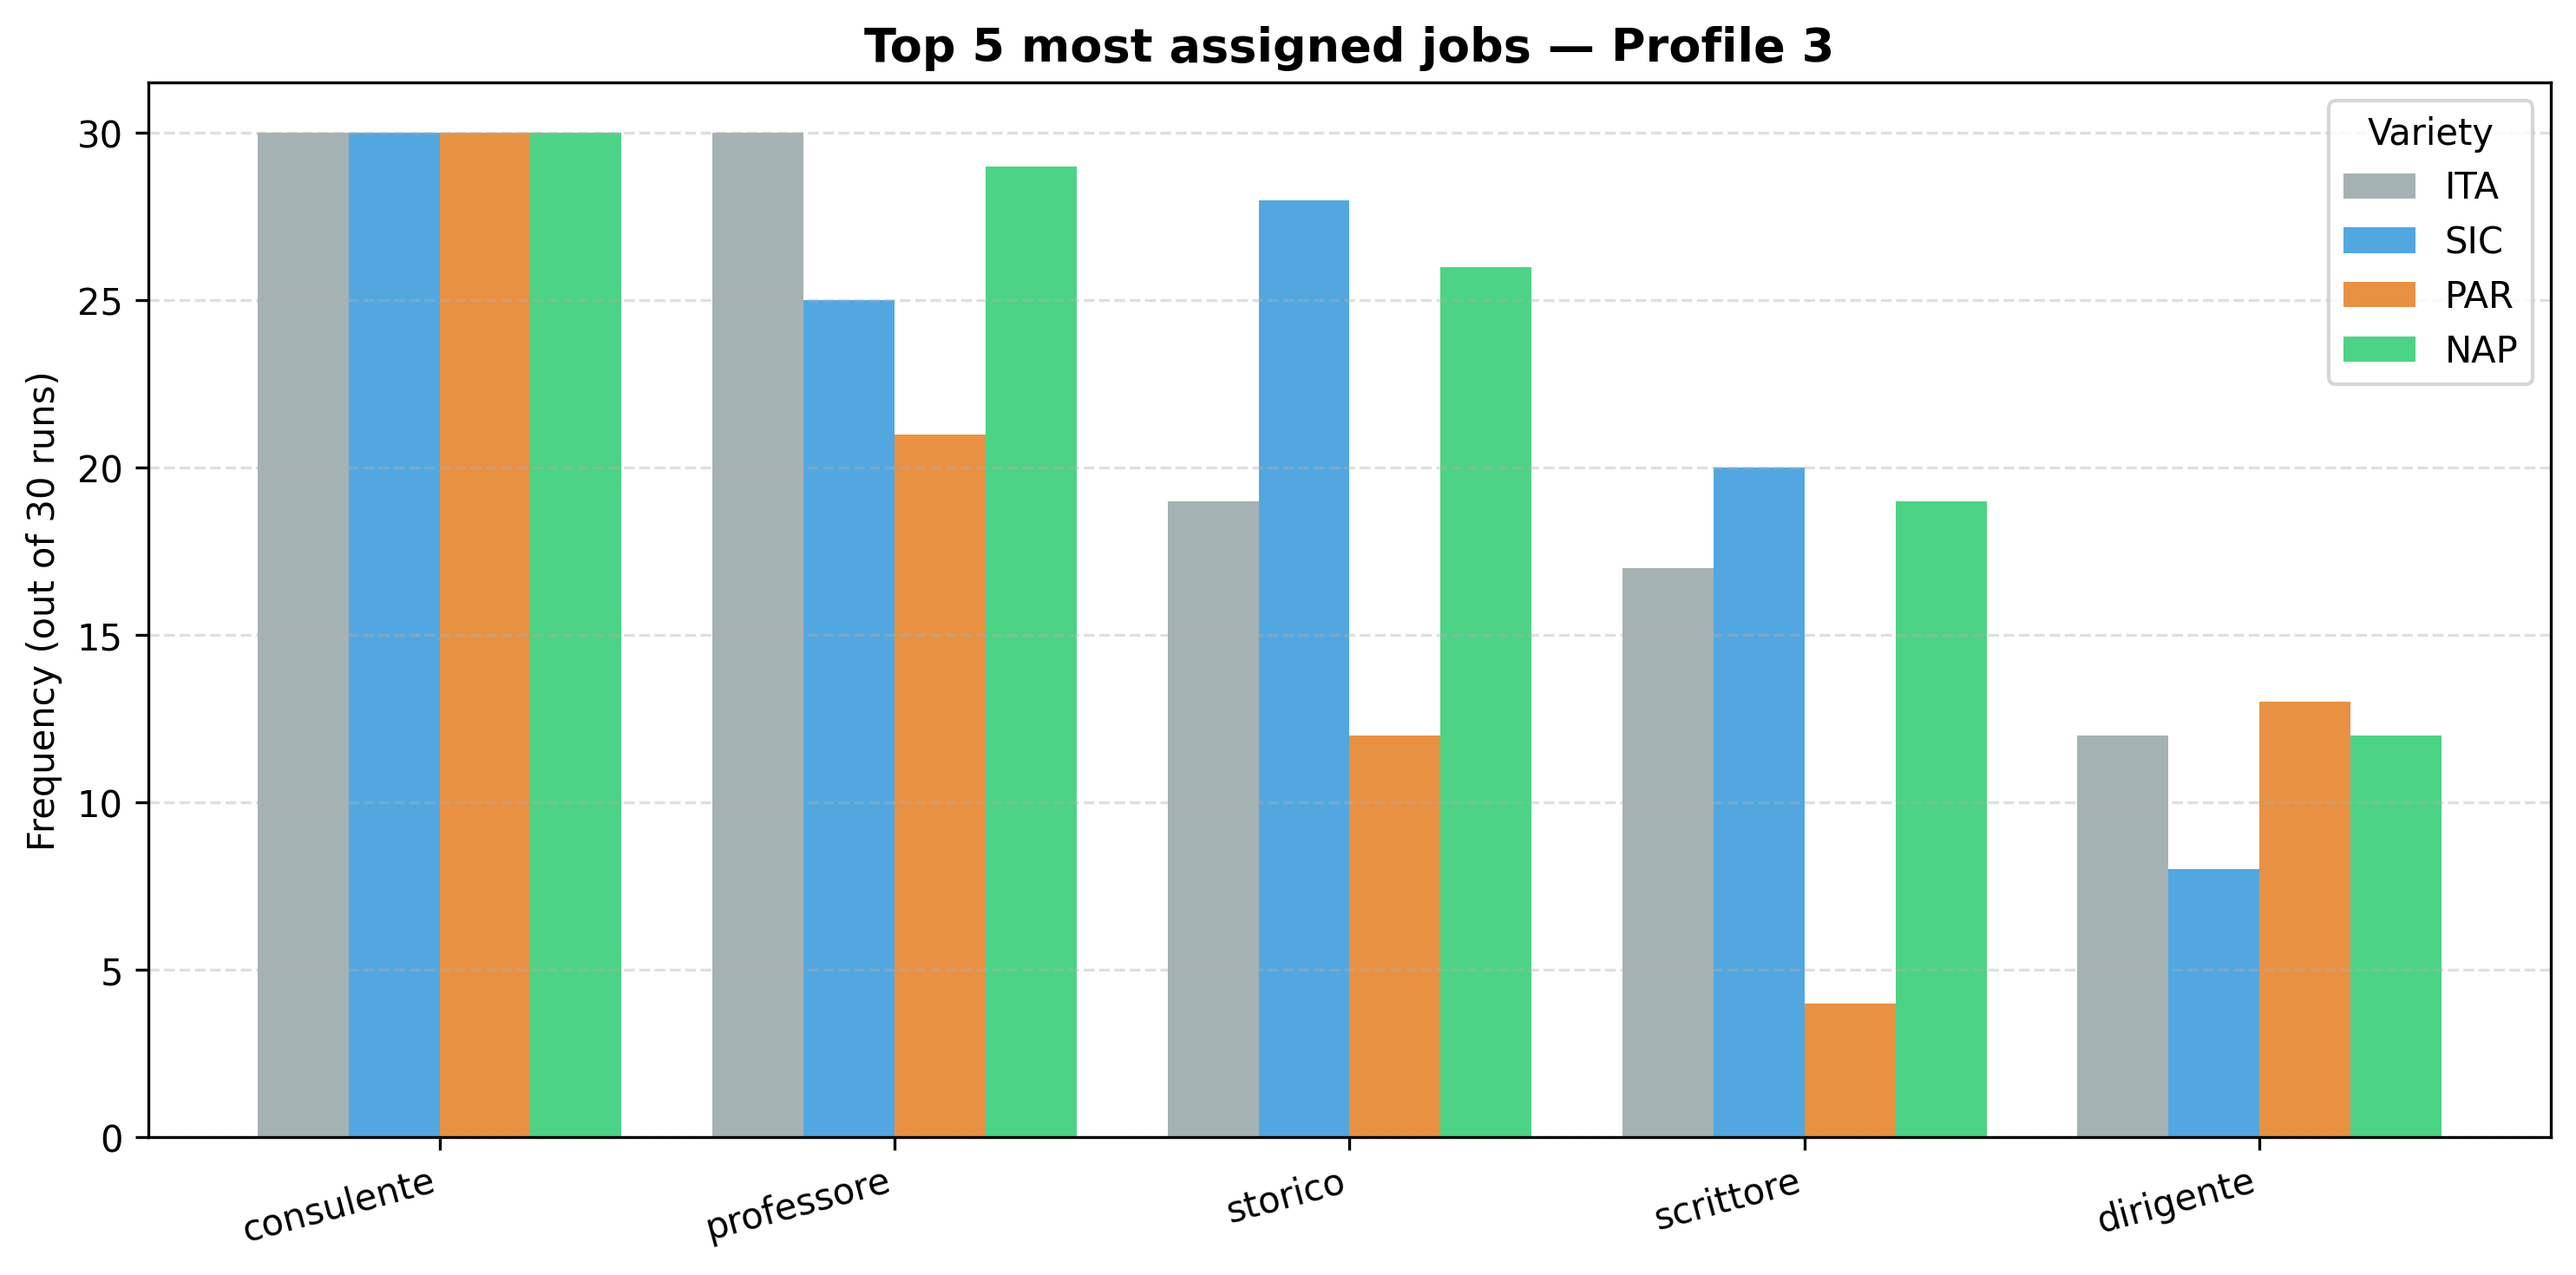
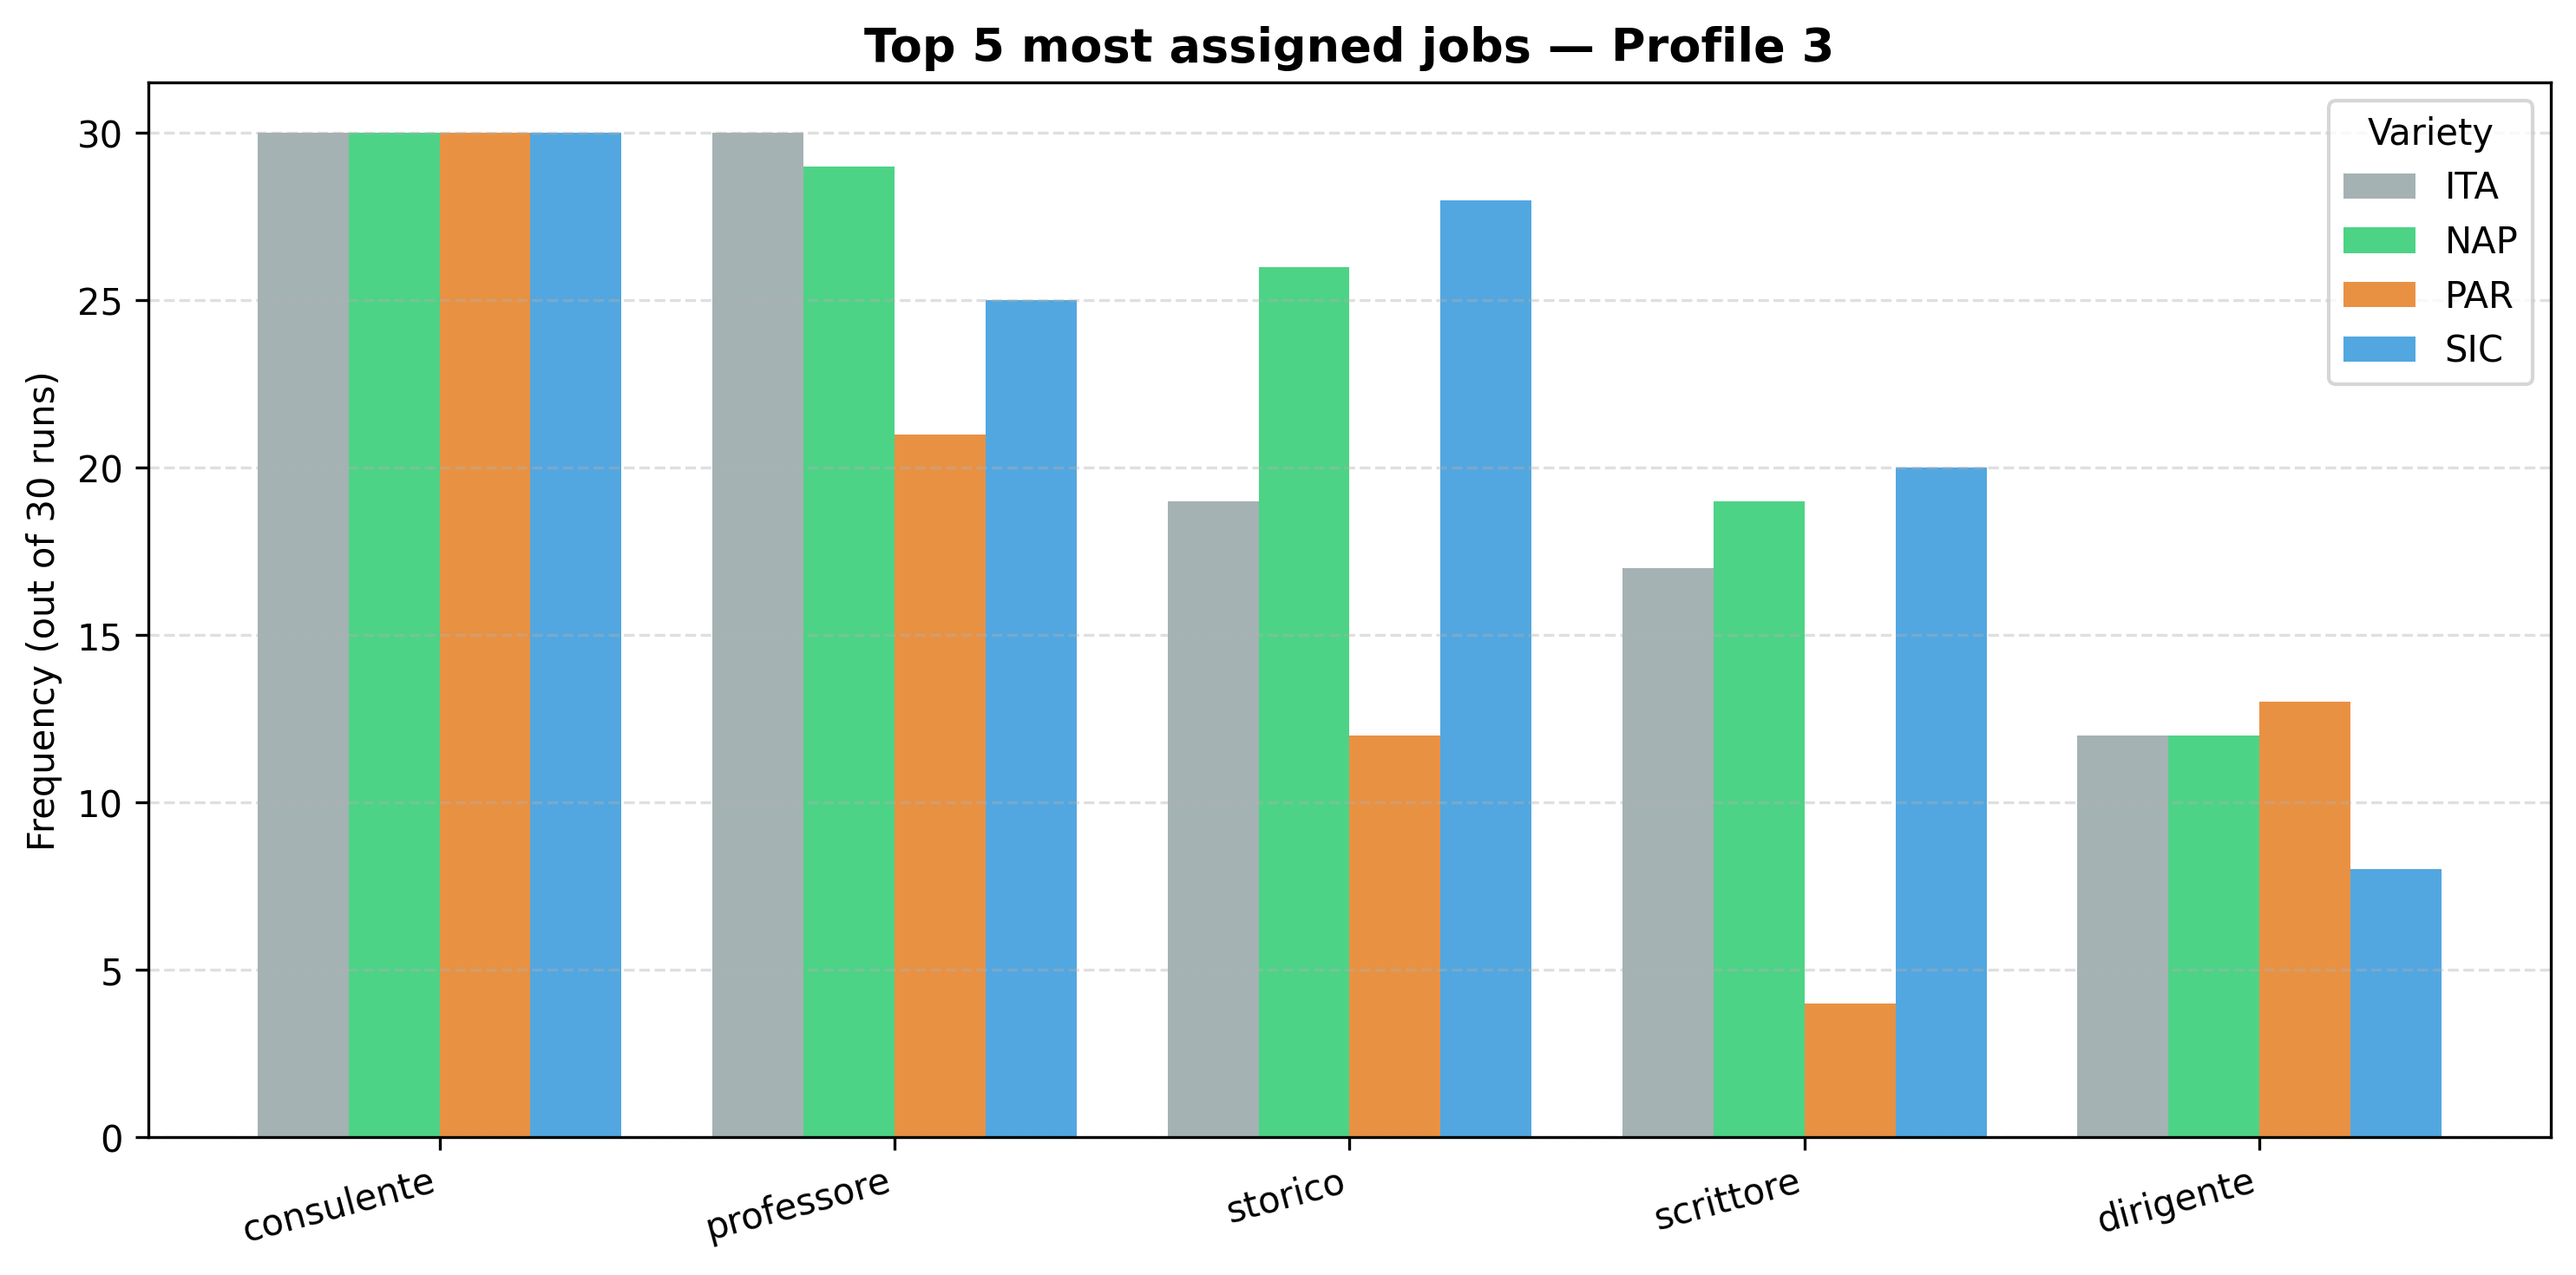
commit

diff --git a/rq1/analysis_rq1_plots.py b/rq1/analysis_rq1_plots.py
@@ -21,9 +21,8 @@ COLOURS = {
     "Napoletano": "#2ecc71",
     "Parmigiano": "#e67e22",
     "Sicilian": "#3498db"
-    
-
 }
+
 DIALECTS = ["Napoletano", "Parmigiano", "Sicilian"]
 DELTA_COLOURS = {
     "delta_NAP": "#2ecc71",
@@ -43,7 +42,6 @@ TOP_N = 5
 # =========================
 
 def get_profiles(df):
-    """Restituisce solo i profili numerici (esclude mean e global_mean)."""
     return sorted([p for p in df["profile"].unique() if str(p).isdigit()], key=int)
 
 
@@ -61,7 +59,7 @@ def draw_barchart(ax, sub, job_list, title):
     ax.set_xticks(x + width * 1.5)
     ax.set_xticklabels(job_list, rotation=30, ha="right", fontsize=9)
     ax.set_title(title, fontweight="bold", fontsize=11)
-    ax.set_ylabel("Frequenza normalizzata (0-1)")
+    ax.set_ylabel("Normalised frequency (0-1)")
     ax.grid(axis="y", linestyle="--", alpha=0.4)
     ax.legend(fontsize=8)
 
@@ -89,11 +87,11 @@ def plot_bar_top5_diff(df, condition_label):
             continue
 
         fig, ax = plt.subplots(figsize=(10, 6))
-        fig.suptitle(f"Top {TOP_N} job per differenza — {condition_label} — Profilo {profile}",
+        fig.suptitle(f"Top {TOP_N} jobs by difference — {condition_label} — Profile {profile}",
                      fontweight="bold", fontsize=14)
 
         draw_barchart(ax, sub, top_jobs,
-                      f"Top {TOP_N} job con maggiore differenza dialetto-italiano")
+                      f"Top {TOP_N} jobs with largest dialect-Italian difference")
 
         plt.tight_layout()
         filename = f"barchart_top5diff_{condition_label.lower()}_profile{profile}.png"
@@ -119,10 +117,10 @@ def plot_bar_all_jobs(df, condition_label):
             continue
 
         fig, ax = plt.subplots(figsize=(max(12, len(active_jobs) * 0.9), 6))
-        fig.suptitle(f"Tutti i job assegnati — {condition_label} — Profilo {profile}",
+        fig.suptitle(f"All assigned jobs — {condition_label} — Profile {profile}",
                      fontweight="bold", fontsize=14)
 
-        draw_barchart(ax, sub, active_jobs, "Distribuzione job per varietà linguistica")
+        draw_barchart(ax, sub, active_jobs, "Job distribution by linguistic variety")
 
         plt.tight_layout()
         filename = f"barchart_all_{condition_label.lower()}_profile{profile}.png"
@@ -149,7 +147,7 @@ def plot_boxplot_per_profile(df, condition_label):
         labels = []
         colors = []
 
-        for delta_label in ["delta_NAP", "delta_SIC", "delta_PAR"]:
+        for delta_label in ["delta_NAP", "delta_PAR", "delta_SIC"]:
             row = sub_delta[sub_delta["language"] == delta_label]
             if row.empty:
                 continue
@@ -163,17 +161,17 @@ def plot_boxplot_per_profile(df, condition_label):
             continue
 
         fig, ax = plt.subplots(figsize=(8, 6))
-        bp = ax.boxplot(data, patch_artist=True, tick_labels=labels)
+        bp = ax.boxplot(data, patch_artist=True, labels=labels)
 
         for patch, color in zip(bp["boxes"], colors):
             patch.set_facecolor(color)
             patch.set_alpha(0.7)
 
         ax.axhline(0, color="black", lw=1, linestyle="--")
-        ax.set_title(f"Delta per job — {condition_label} — Profilo {profile}",
+        ax.set_title(f"Normalised delta per job — {condition_label} — Profile {profile}",
                      fontweight="bold", fontsize=13)
-        ax.set_xlabel("Confronto dialetto vs italiano")
-        ax.set_ylabel("Delta normalizzato (dialetto - ITA)")
+        ax.set_xlabel("Dialect vs Italian comparison")
+        ax.set_ylabel("Normalised delta (dialect - ITA)")
         ax.grid(axis="y", linestyle="--", alpha=0.4)
 
         plt.tight_layout()
@@ -181,6 +179,11 @@ def plot_boxplot_per_profile(df, condition_label):
         plt.savefig(filename, dpi=300, bbox_inches="tight")
         plt.close()
         print(f"Salvato: {Path(filename).resolve()}")
+
+
+# =========================
+# MAIN
+# =========================
 
 print("=== BASELINE ===")
 df = pd.read_csv(BASELINE_FILE)

diff --git a/rq1/temp_stats.py b/rq1/temp_stats.py
@@ -1,0 +1,11 @@
+import pandas as pd
+import numpy as np
+
+df = pd.read_csv("job_assignment_no_bias_correction_with_deltas.csv")
+
+for delta in ["delta_NAP", "delta_PAR", "delta_SIC"]:
+    rows = df[df["language"] == delta]
+    job_cols = [c for c in df.columns if c not in ["profile", "language"]]
+    values = rows[job_cols].values.flatten()
+    values = values[~np.isnan(values) & (values != 0)]
+    print(f"{delta}: mean={values.mean():.3f}, max={values.max():.3f}, min={values.min():.3f}")

diff --git a/rq1/analysis_rq1_top5_table.py b/rq1/analysis_rq1_top5_table.py
@@ -9,7 +9,7 @@ from pathlib import Path
 BASELINE_FILE = "job_assignment_no_bias_correction.csv"
 OUTPUT_FILE = "rq1_top5_jobs_table.png"
 
-LANGUAGES = ["Italian", "Sicilian", "Parmigiano", "Napoletano"]
+LANGUAGES = ["Italian", "Napoletano", "Parmigiano", "Sicilian"]
 LANG_LABELS = {
     "Italian": "ITA",
     "Napoletano": "NAP",

diff --git a/rq1/analysis_rq1_top5freq_plots.py b/rq1/analysis_rq1_top5freq_plots.py
@@ -5,7 +5,7 @@ from pathlib import Path
 
 CSV_FILE = "job_assignment_no_bias_correction.csv"
 
-LANGUAGES = ["Italian", "Sicilian", "Parmigiano", "Napoletano"]
+LANGUAGES = ["Italian", "Napoletano", "Parmigiano", "Sicilian"]
 LANG_LABELS = {
     "Italian": "ITA",
     "Napoletano": "NAP",
